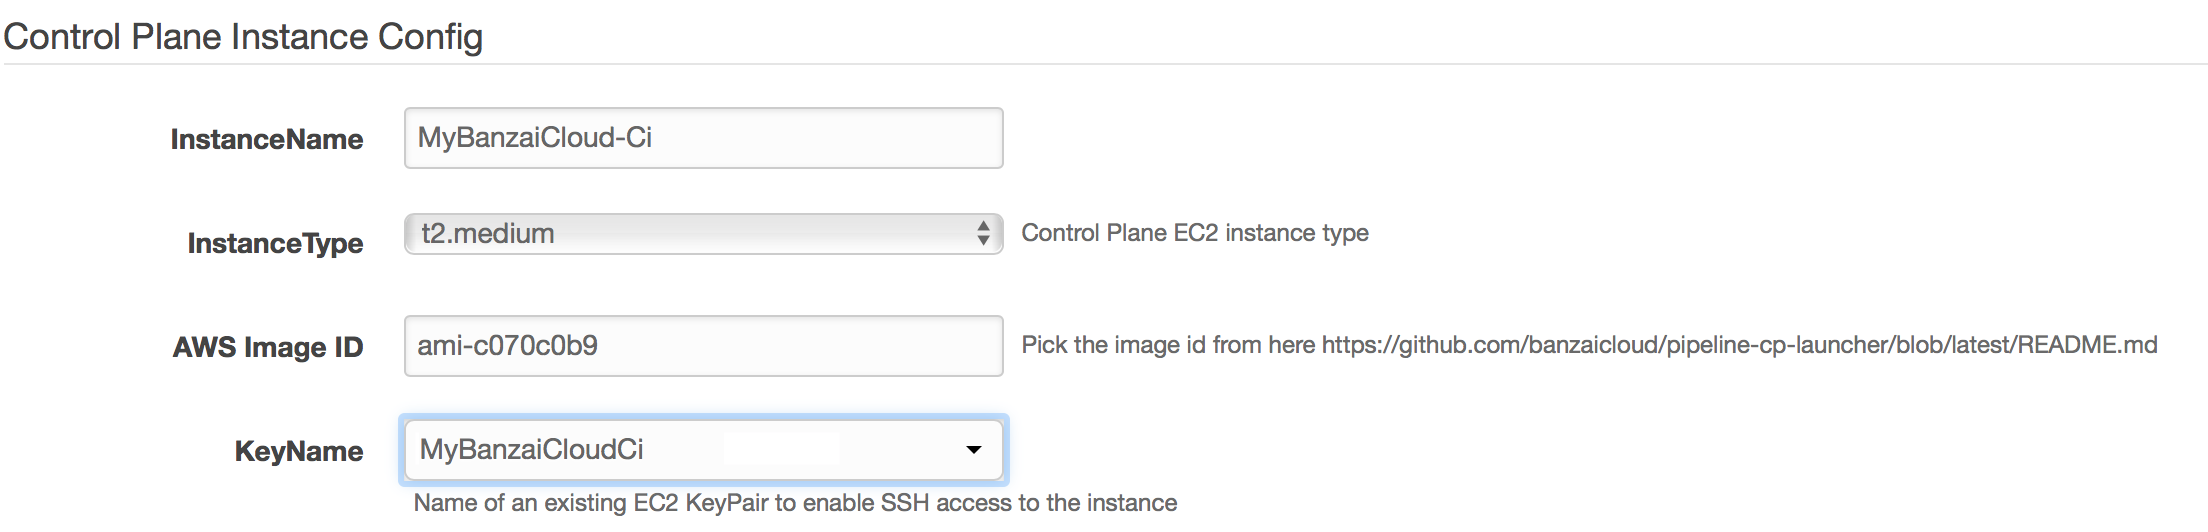
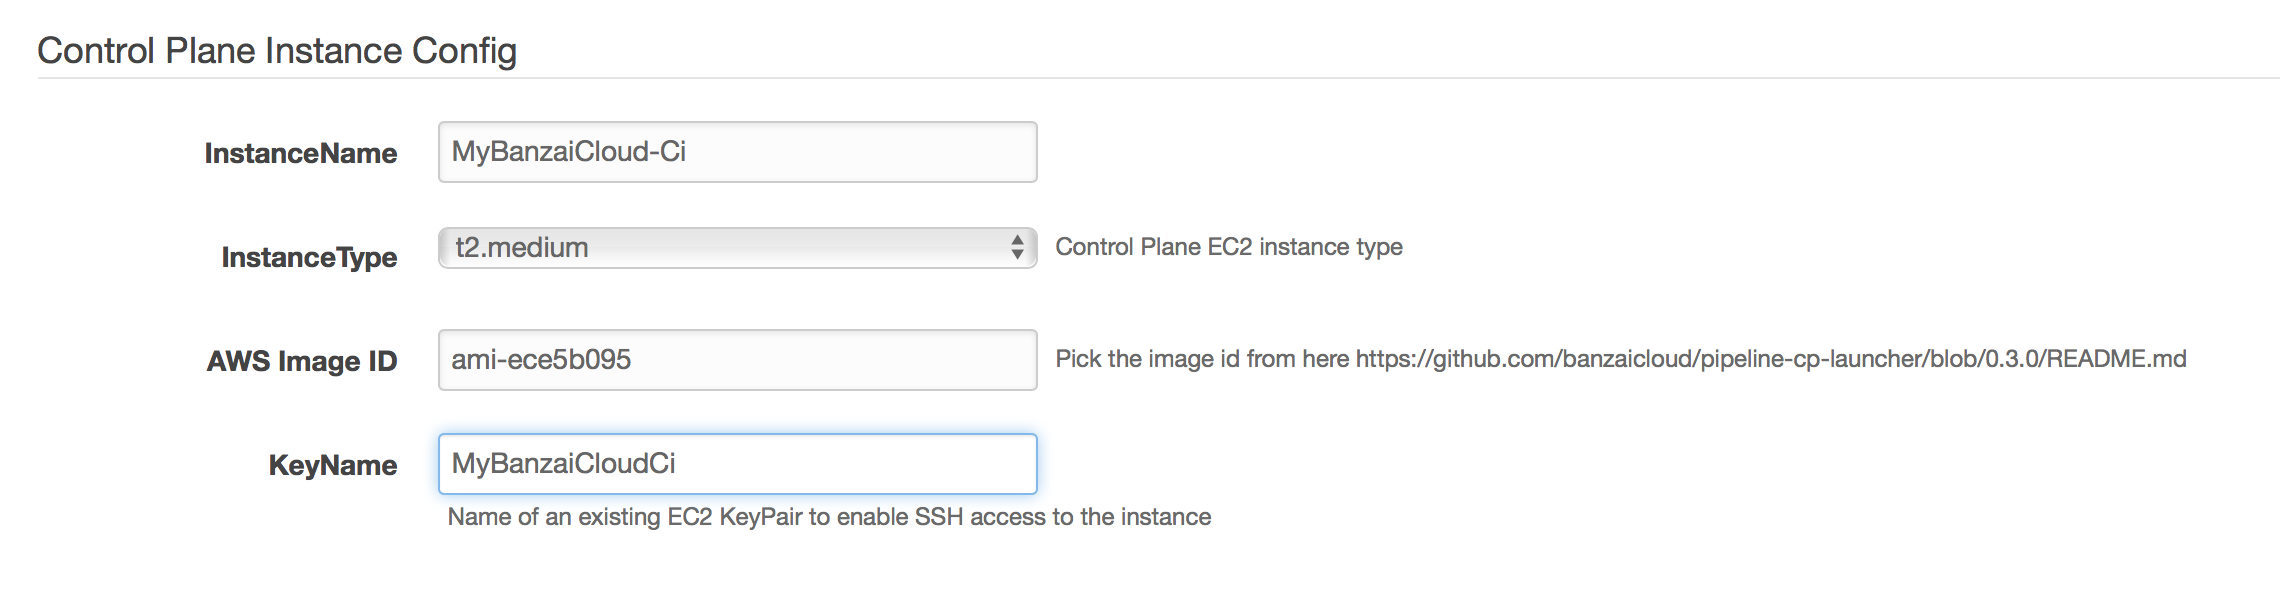
Update ami in docs and CF template URL

diff --git a/docs/control-plane-on-aws.md b/docs/control-plane-on-aws.md
@@ -3,7 +3,7 @@
 Follow the steps below for hosting `Pipeline Control Plane` on `AWS`.
 On `AWS` we use a [Cloudformation](https://aws.amazon.com/cloudformation/) template in order to provision a Pipeline control plane.
 
-The control plane image (AMI) is currently published to one region, `eu-west-1` aka Ireland. When launching the control plane please pass the following ImageId `ami-c070c0b9`.
+The control plane image (AMI) is currently published to one region, `eu-west-1` aka Ireland. When launching the control plane please pass the following ImageId `ami-ece5b095`.
 
 ## Pre-requisites
 
@@ -21,7 +21,7 @@ For creating the control plane launcher through command line take a look at `.en
 
 * Initiate the creation of a new stack: [![Launch stack](https://s3.amazonaws.com/cloudformation-examples/cloudformation-launch-stack.png)](https://eu-west-1.console.aws.amazon.com/cloudformation/home?region=eu-west-1#/stacks/new)
 
-* Select `Specify an Amazon S3 template URL` and add the URL to our template `https://s3-eu-west-1.amazonaws.com/cf-templates-grr4ysncvcdl-eu-west-1/2018071W8O-new.templates9sd4jylejr`
+* Select `Specify an Amazon S3 template URL` and add the URL to our template `https://s3-eu-west-1.amazonaws.com/cf-templates-grr4ysncvcdl-eu-west-1/2018079qfE-new.templateejo9oubl16`
 
   <a href="images/ControlPlaneFromTemplate.png" target="_blank"><img src="images/ControlPlaneFromTemplate.png" height="230"></a>
 
